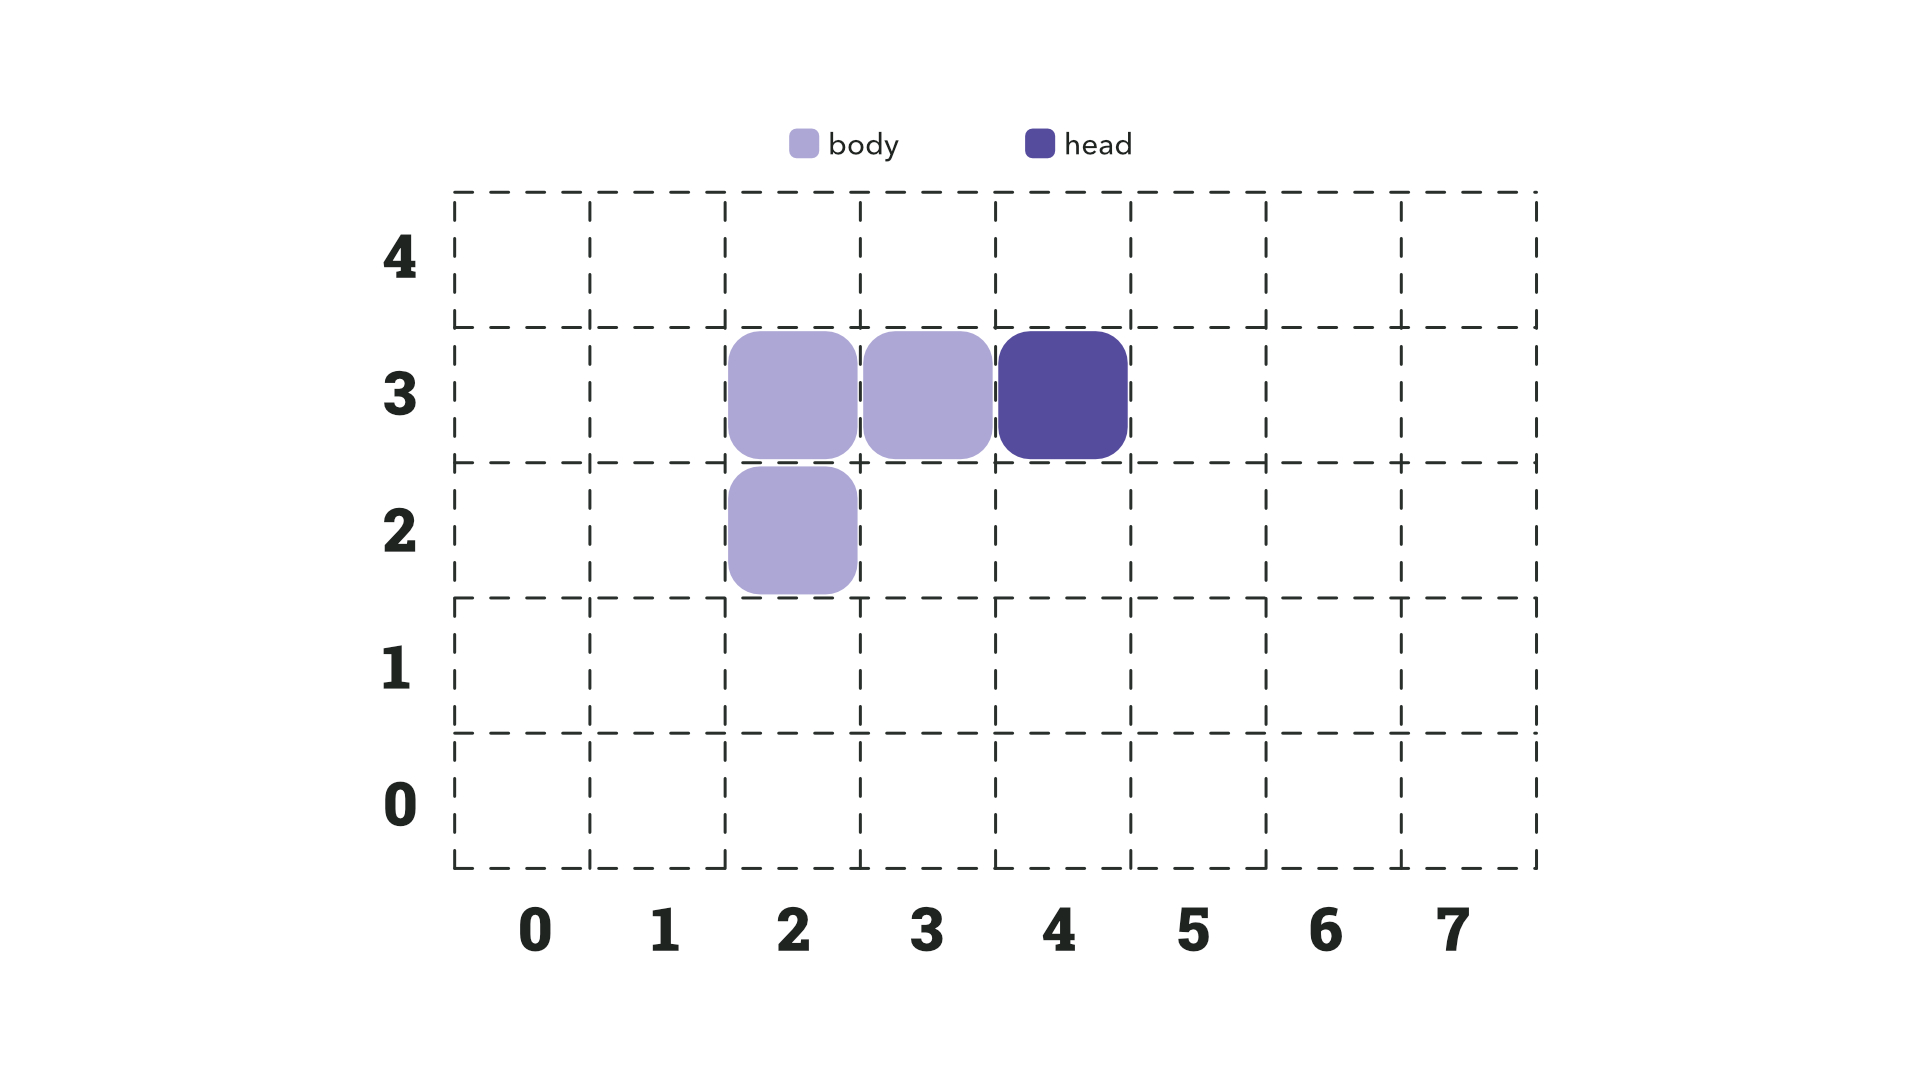
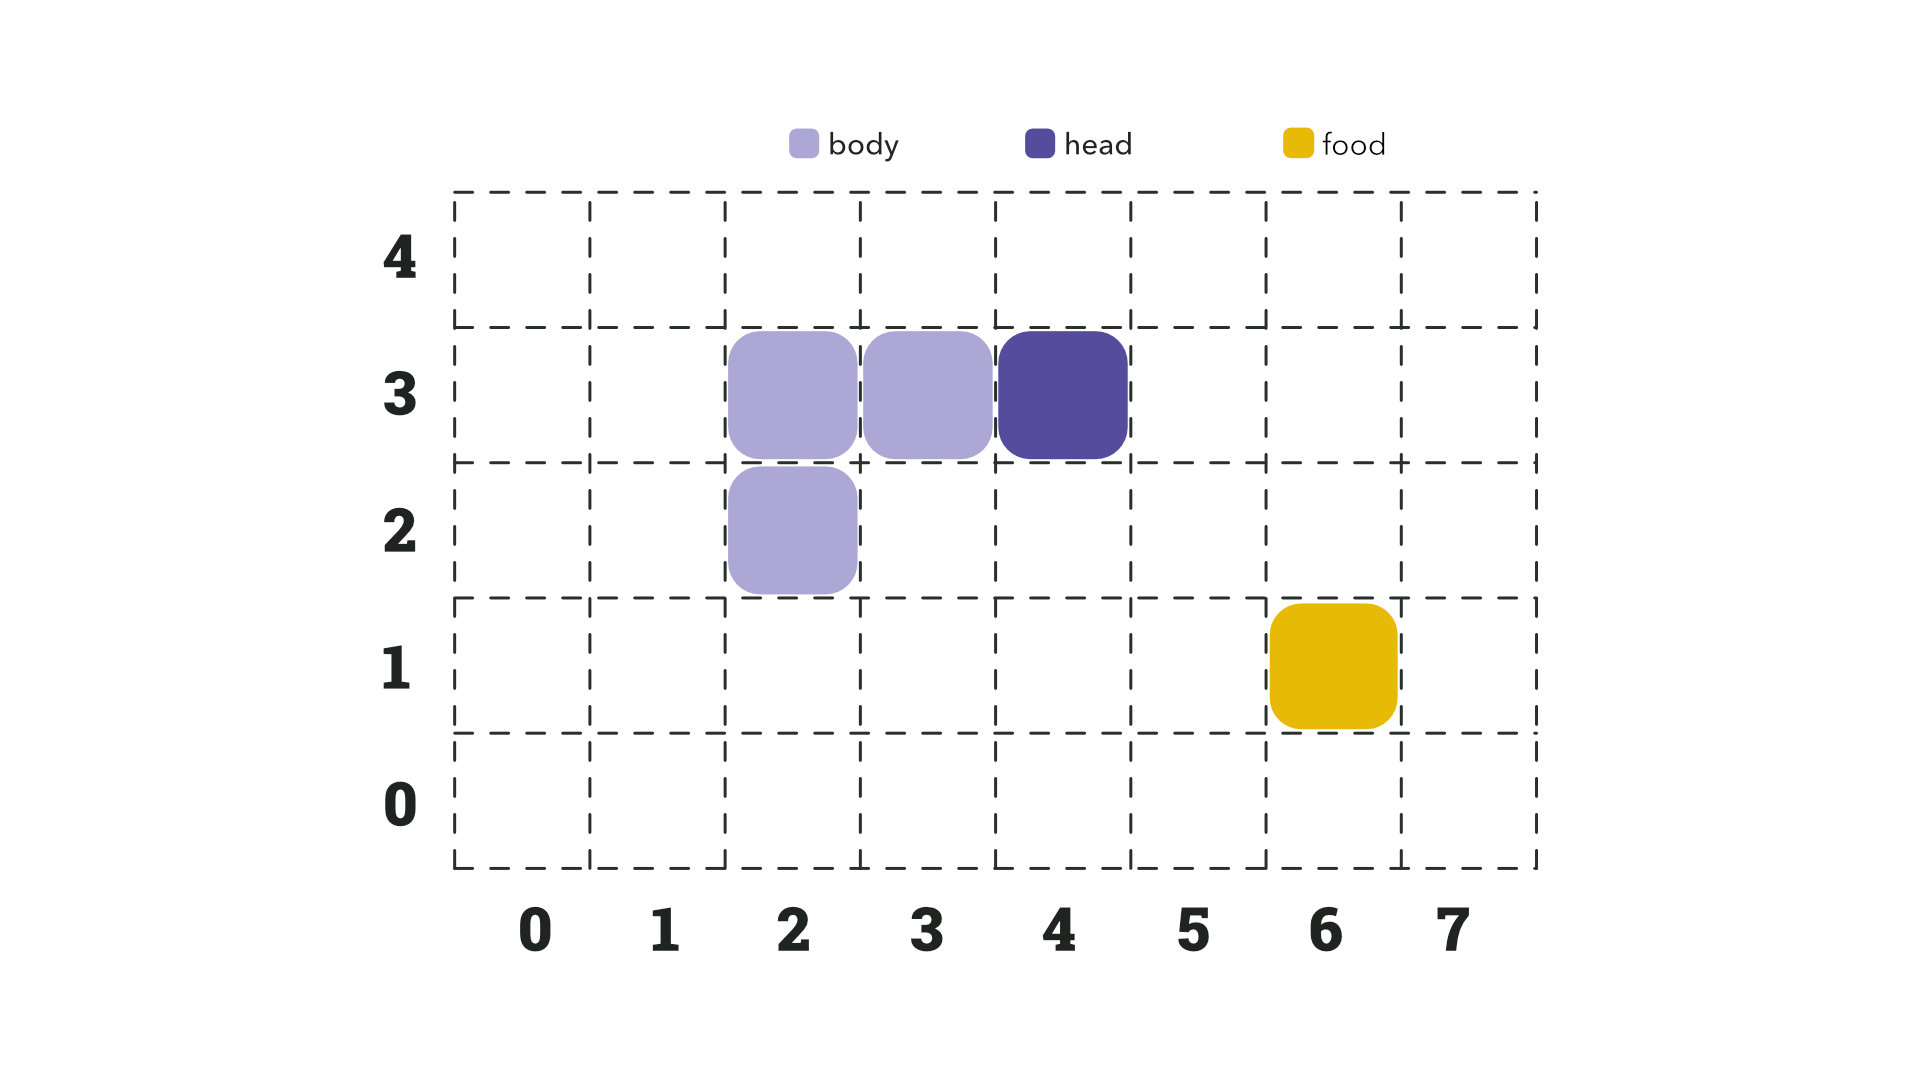
wip

Changed region(s): [[0.6562, 0.55, 0.75, 0.7028], [0.6562, 0.1222, 0.7188, 0.1528]]

diff --git a/_posts/2022-06-11-Make-it-move.md b/_posts/2022-06-11-Make-it-move.md
@@ -12,6 +12,7 @@ titles:
   - Type of functions
   - Immutability
   - Piping
+  - Modelling the game
   - Make it move
 ---
 
@@ -157,12 +158,106 @@ const result = pipe(state)(
 console.log(result) // { foo: 'bar', a: '', b: '' }
 ```
 
-# Make it move
+# Modelling the game
 
-Our game will live in a 2D coordinate system, where
-every game object has a `x` and `y` position.
+I assume you know this game, but let's go through it.
+We have a snake in a constrained environment, where
+the goal is to eat the most amount of food and grow without
+colliding with the walls or with our own tail.
+
+We will model the game in a 2D coordinate system, where
+every object will have an `x` and `y` position.
 
 {% include post-image.html
   src='coordinate-system.jpg'
   date=page.date
 %}
+
+```ts
+type BodyPart = {
+  x: number
+  y: number
+
+  // previous x, y position
+  pX: number
+  pY: number
+}
+
+type Snake = {
+  body: BodyPart[]
+  dir: 'UP' | 'DOWN' | 'RIGHT' | 'LEFT'
+}
+
+type Food = {
+  x: number
+  y: number
+}
+
+type View = {
+  width: number
+  height: number
+}
+
+type State = {
+  view: View
+  snake: Snake
+  food: Food
+  isGameOver: boolean
+}
+```
+
+At a high level the implementation will be just a mapping between `(currentState, input) => newState`.
+Where our main function will consist of multiple state transitions on `State` piped together like this:
+
+```ts
+function update(currentState: State, input: 'UP' | 'DOWN' | 'RIGHT' | 'LEFT') {
+  return pipe(currentState)(
+    turnSnake(input),
+    moveSnake,
+    seekFood,
+    isGameOver,
+  )
+}
+```
+
+# Make it move
+
+Now we will concentrate on the `moveSnake` function.
+
+There will be multiple things in our game state,
+so first we will have to `destructure` the snake from it,
+then update it's body to make it move.
+
+```js
+export function moveSnake(state) {
+  const { snake } = state
+
+  return {
+    ...state,
+    snake: {
+      ...snake,
+      body: moveBody(snake),
+    },
+  }
+}
+```
+
+Move the body:
+
+```js
+function moveBody({ body, dir }) {
+  return body.map((part, index, arr) => {
+    if (index == 0) {
+      return moveHead(part, dir)
+    }
+
+    return {
+      ...part,
+      x: arr[index - 1].x,
+      y: arr[index - 1].y,
+      pX: part.x,
+      pY: part.y,
+    }
+  })
+}
+```
